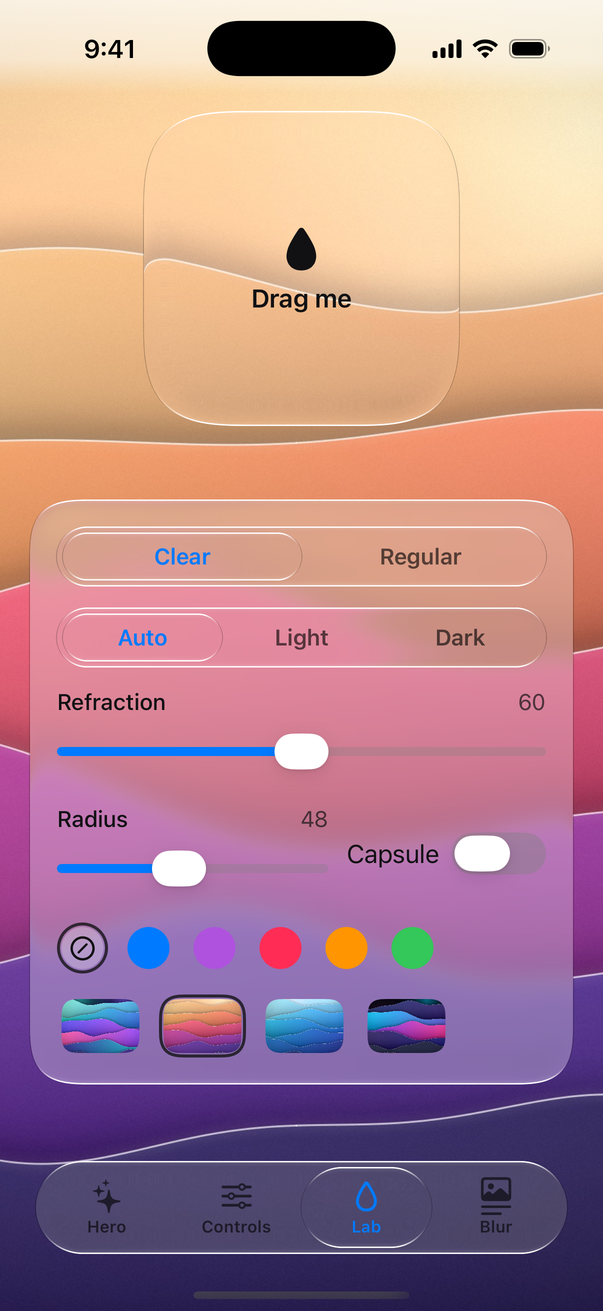
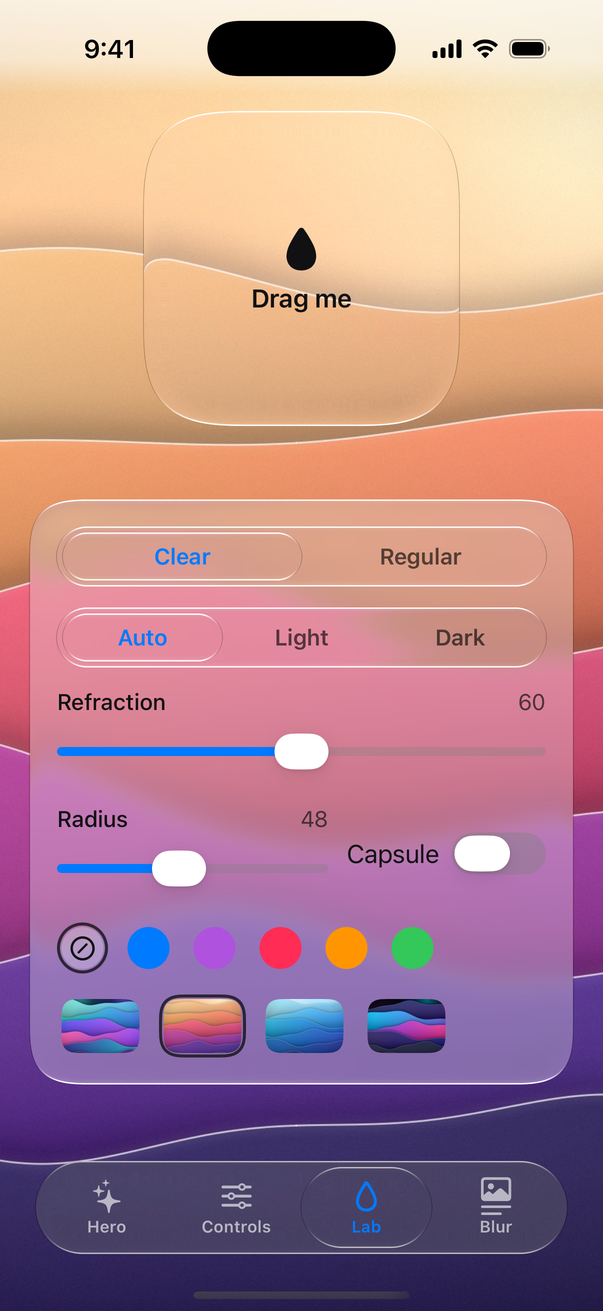
Apple Studio and docs screenshots: the floating tab bar is dark glass over the wallpapers (appearance .dark except over the Regular stories page), as on Android and in Hello Glass, so its labels read in light appearance too (gate visual-1: Hero and Controls were near-black on the Dunes wallpaper's d

Changed region(s): [[0.7761, 0.8848, 0.8657, 0.9458], [0.3284, 0.8848, 0.4478, 0.9458], [0.1493, 0.8848, 0.209, 0.9458]]

diff --git a/platforms/apple/Studio/Sources/Support.swift b/platforms/apple/Studio/Sources/Support.swift
@@ -14,6 +14,10 @@ enum Wallpaper: String, CaseIterable, Identifiable {
     var id: String { rawValue }
     var title: String { rawValue.capitalized }
 
+    /// A small copy for pickers: the full image shrunk about 13 times on the
+    /// fly would alias its thin rim lines.
+    var thumbnail: Image { Image("\(rawValue)-thumb") }
+
     /// The wallpaper filling the space it is offered.
     var view: some View {
         Image(rawValue)
@@ -66,8 +70,17 @@ struct SectionHeader: View {
             .font(.footnote.weight(.semibold))
             .textCase(.uppercase)
             .kerning(0.6)
-            .foregroundStyle(.white.opacity(0.9))
-            .shadow(color: .black.opacity(0.25), radius: 4, y: 1)
+            .foregroundStyle(.white)
+            .shadow(color: .black.opacity(0.35), radius: 2, y: 1)
+            // A soft haze, as under the status bar, keeps the header readable
+            // where it crosses a bright band of the wallpaper.
+            .background {
+                Capsule()
+                    .fill(.black.opacity(0.38))
+                    .padding(.horizontal, -16)
+                    .padding(.vertical, -10)
+                    .blur(radius: 8)
+            }
             .frame(maxWidth: .infinity, alignment: .leading)
             .padding(.horizontal, 4)
             .accessibilityAddTraits(.isHeader)

diff --git a/platforms/apple/Studio/Sources/StudioApp.swift b/platforms/apple/Studio/Sources/StudioApp.swift
@@ -9,7 +9,7 @@ struct LiquidGlassStudioApp: App {
         }
         #if os(macOS)
         .windowStyle(.hiddenTitleBar)
-        .defaultSize(width: 1180, height: 820)
+        .defaultSize(width: 1180, height: 900)
         #endif
     }
 }
@@ -71,8 +71,11 @@ struct StudioRoot: View {
     }
 
     private var tabBar: some View {
-        // Over the scrolling stories the bars frost, so text never shows through.
-        GlassTabBar(selection: $page, material: page == .blur ? .regular : nil) {
+        // Every wallpaper darkens toward the bottom, so over them the bar is
+        // dark glass, as on Android and in Hello Glass: its labels read in
+        // either appearance. Over the scrolling stories the bar frosts, so
+        // text never shows through, and follows the app's appearance.
+        GlassTabBar(selection: $page, material: page == .blur ? .regular : nil, appearance: page == .blur ? nil : .dark) {
             GlassTab("Hero", systemImage: "sparkles", value: StudioPage.hero)
             GlassTab("Controls", systemImage: "slider.horizontal.3", value: StudioPage.controls)
             GlassTab("Lab", systemImage: "drop", value: StudioPage.lab)

diff --git a/platforms/apple/Studio/UITests/StudioUITests.swift b/platforms/apple/Studio/UITests/StudioUITests.swift
@@ -101,6 +101,23 @@ final class StudioUITests: XCTestCase {
         XCTAssertTrue(waitUntil { toggle.value as? String == "0" }, "switch did not turn off")
     }
 
+    /// Opened scrolled to its end (`-scroll end`), the page shows its last
+    /// rows clear of the floating tab bar's fade: the Slider and switch card
+    /// with every switch, and the menus.
+    func testControlsScrolledToTheEnd() {
+        let app = XCUIApplication()
+        app.launchArguments = ["-page", "controls", "-appearance", "dark", "-scroll", "end"]
+        app.launch()
+        let sort = app.buttons["Sort: Newest"]
+        XCTAssertTrue(sort.waitForExistence(timeout: 5))
+        settle(1)
+        let tab = app.buttons["Controls"].firstMatch
+        XCTAssertLessThan(sort.frame.maxY, tab.frame.minY - 40, "the menus are not clear of the tab bar's fade")
+        let airDrop = app.switches["AirDrop"]
+        XCTAssertLessThan(airDrop.frame.maxY, sort.frame.minY, "the last switch is not above the menus")
+        snap("controls-end")
+    }
+
     func testMenuInScrollViewChangesSelection() {
         let app = launch("controls")
         let sort = app.buttons["Sort: Newest"]

diff --git a/platforms/apple/Studio/Sources/ControlsPage.swift b/platforms/apple/Studio/Sources/ControlsPage.swift
@@ -48,8 +48,21 @@ struct ControlsPage: View {
                 .frame(maxWidth: .infinity)
             }
             .scrollIndicators(.hidden)
+            // `-scroll end` opens the page scrolled to its end, the menus
+            // clear of the tab bar; `-scroll 0.8` at that fraction of the
+            // way (screenshots).
+            .defaultScrollAnchor(Self.launchAnchor)
             .modifier(ScrollEdge())
         }
+    }
+
+    /// Where the page opens: the `-scroll` launch argument, `end` or a
+    /// fraction of the scrollable height; the top by default.
+    private static var launchAnchor: UnitPoint {
+        let value = UserDefaults.standard.string(forKey: "scroll")
+        if value == "end" { return .bottom }
+        guard let fraction = value.flatMap(Double.init) else { return .top }
+        return UnitPoint(x: 0.5, y: min(1, max(0, fraction)))
     }
 
     /// From this width the page lays out in two columns.

diff --git a/platforms/apple/Studio/Sources/LabPage.swift b/platforms/apple/Studio/Sources/LabPage.swift
@@ -126,7 +126,7 @@ struct LabPage: View {
                 Button {
                     settings.wallpaper = wallpaper
                 } label: {
-                    Image(wallpaper.rawValue)
+                    wallpaper.thumbnail
                         .resizable()
                         .scaledToFill()
                         .frame(width: 52, height: 36)

diff --git a/docs/apple.md b/docs/apple.md
@@ -410,15 +410,17 @@ The demo app, in [`platforms/apple/Studio`](../platforms/apple/Studio), runs on 
 3. **Materials lab:** live material, appearance, refraction, radius, tint and wallpaper controls for a draggable lens, on a Regular glass panel with Regular pickers.
 4. **Progressive blur:** a `GlassScrollView` of stories with blurred top and bottom edges under a Regular toolbar, with a Filter menu of story categories.
 
+The floating tab bar is dark glass over the wallpapers, which all darken toward the bottom, so its labels read in either appearance; over the stories it is Regular glass in the app's appearance. Section headers drawn on a wallpaper sit on a soft dark haze.
+
 <p align="center">
-  <img src="images/apple/ios-controls.png" width="32%" alt="Controls: glass buttons in every size, icon buttons, a toolbar, sliders and switches over a wallpaper, above a glass tab bar on iPhone">
+  <img src="images/apple/ios-controls.png" width="32%" alt="Controls, scrolled down: icon buttons, a toolbar, sliders and switches and a segmented tab bar over a wallpaper, above a glass tab bar on iPhone">
   <img src="images/apple/ios-lab.png" width="32%" alt="Materials lab: a draggable Clear glass card over the Dunes wallpaper, with material, appearance, refraction, radius, tint and wallpaper controls on iPhone">
   <img src="images/apple/ios-blur.png" width="32%" alt="Progressive blur: a journal of stories scrolling under blurred edges, with Regular glass toolbar buttons and a tab bar on iPhone">
 </p>
 
 ![Liquid Glass Studio on macOS](images/apple/macos-controls.png)
 
-Open `platforms/apple/Studio/LiquidGlassStudio.xcodeproj` in Xcode, pick the *LiquidGlassStudio* scheme and run on an iOS Simulator or *My Mac*; both build with the project's ad-hoc signing. To run on an iPhone or iPad, select the *LiquidGlassStudio* target, open **Signing & Capabilities**, turn on **Automatically manage signing** and choose your team (the project's manual ad-hoc identity can't sign for devices). On iPhone the Studio runs in portrait; on iPad and Mac in any orientation and window size. Launch arguments `-page hero|controls|lab|blur` and `-appearance automatic|light|dark` choose where it starts; `-AppleTextDirection YES -NSForceRightToLeftWritingDirection YES` shows it right to left. A prebuilt macOS build is on the website's downloads page. Unzip it and move *Liquid Glass Studio* to Applications first. It is ad-hoc signed and not notarized, so macOS blocks its first launch: open it once, then open System Settings › Privacy & Security and click Open Anyway (on macOS 14, Control-click › Open also works). Or, once it is in Applications, run `xattr -dr com.apple.quarantine "/Applications/Liquid Glass Studio.app"`.
+Open `platforms/apple/Studio/LiquidGlassStudio.xcodeproj` in Xcode, pick the *LiquidGlassStudio* scheme and run on an iOS Simulator or *My Mac*; both build with the project's ad-hoc signing. To run on an iPhone or iPad, select the *LiquidGlassStudio* target, open **Signing & Capabilities**, turn on **Automatically manage signing** and choose your team (the project's manual ad-hoc identity can't sign for devices). On iPhone the Studio runs in portrait; on iPad and Mac in any orientation and window size. Launch arguments `-page hero|controls|lab|blur` and `-appearance automatic|light|dark` choose where it starts, and `-scroll end` or a fraction of the way down, such as `-scroll 0.76` (the iPhone Controls shot above), where the Controls page opens; `-AppleTextDirection YES -NSForceRightToLeftWritingDirection YES` shows it right to left. A prebuilt macOS build is on the website's downloads page. Unzip it and move *Liquid Glass Studio* to Applications first. It is ad-hoc signed and not notarized, so macOS blocks its first launch: open it once, then open System Settings › Privacy & Security and click Open Anyway (on macOS 14, Control-click › Open also works). Or, once it is in Applications, run `xattr -dr com.apple.quarantine "/Applications/Liquid Glass Studio.app"`.
 
 The Xcode project is generated from `project.yml` with [XcodeGen](https://github.com/yonaskolb/XcodeGen); after adding files run `platforms/apple/scripts/generate-project.sh`. The app icon is drawn by `platforms/apple/Studio/Scripts/make-app-icon.swift`.
 
@@ -433,7 +435,8 @@ xcodebuild test -scheme LiquidGlass -destination 'platform=iOS Simulator,name=iP
 xcodebuild test -project platforms/apple/Studio/LiquidGlassStudio.xcodeproj -scheme LiquidGlassStudio \
   -destination 'platform=iOS Simulator,name=iPhone 16 Pro'
 
-# Release build of the macOS app, ad-hoc signed and zipped into artifacts/apple/
+# Release build of the macOS app, ad-hoc signed and zipped into artifacts/apple/, with LICENSE and NOTICE.md in the
+# app's Resources and at the top of the zip
 xcodebuild build -project platforms/apple/Studio/LiquidGlassStudio.xcodeproj -scheme LiquidGlassStudio \
   -configuration Release -destination 'generic/platform=macOS' -derivedDataPath DerivedData
 platforms/apple/scripts/package-macos.sh DerivedData/Build/Products/Release
